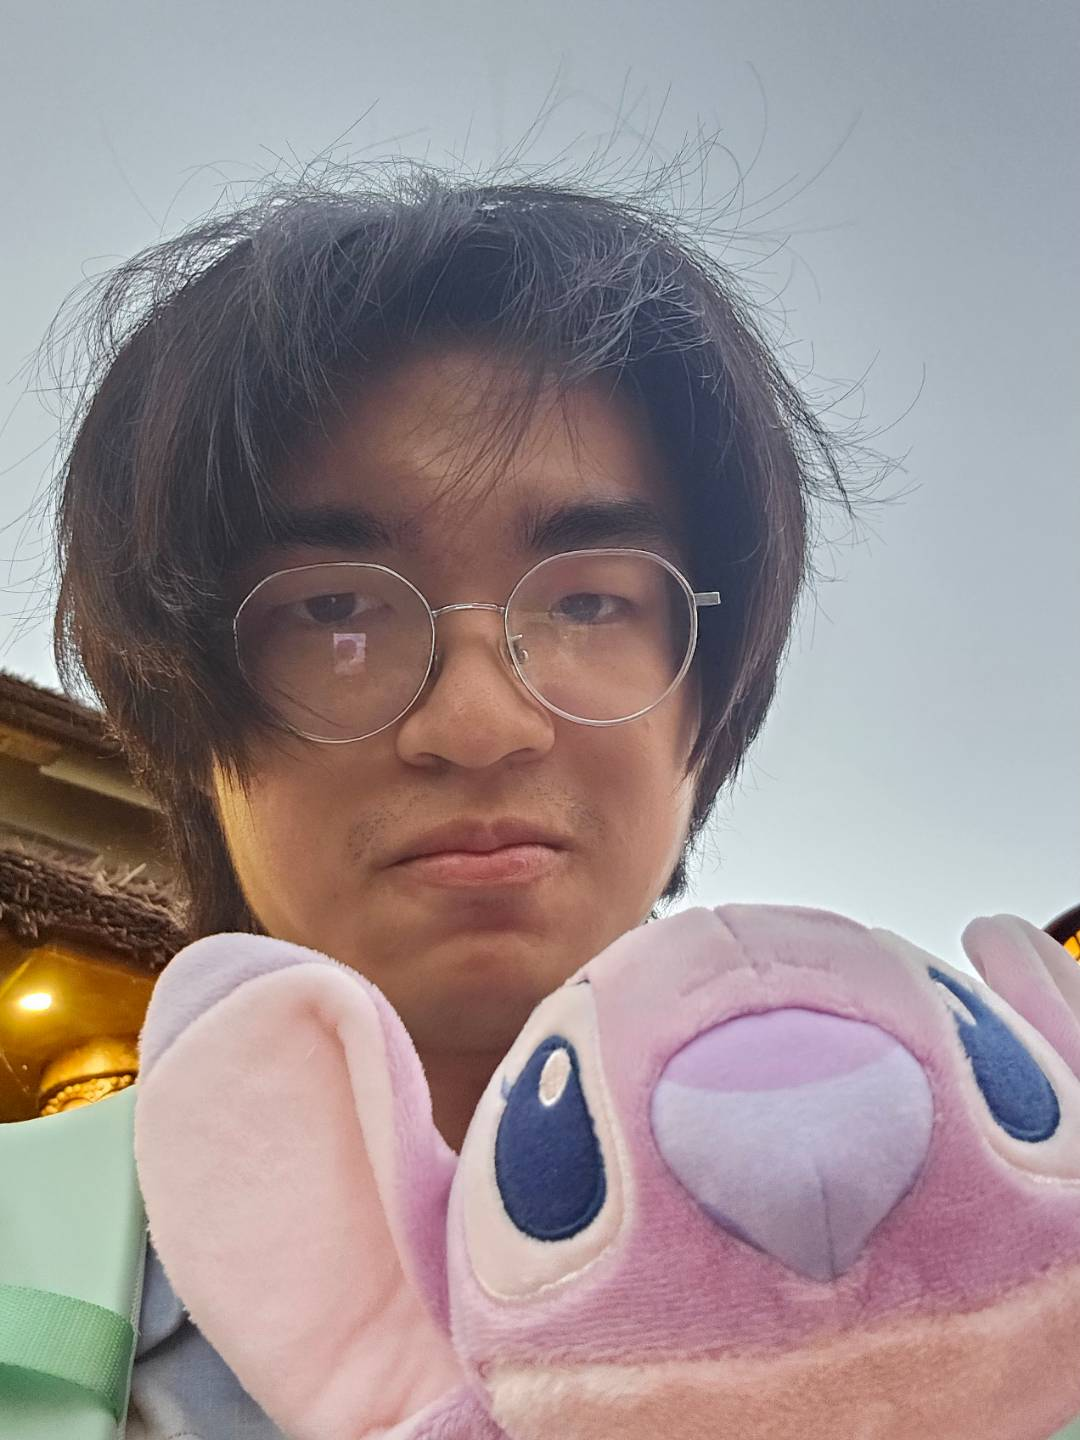
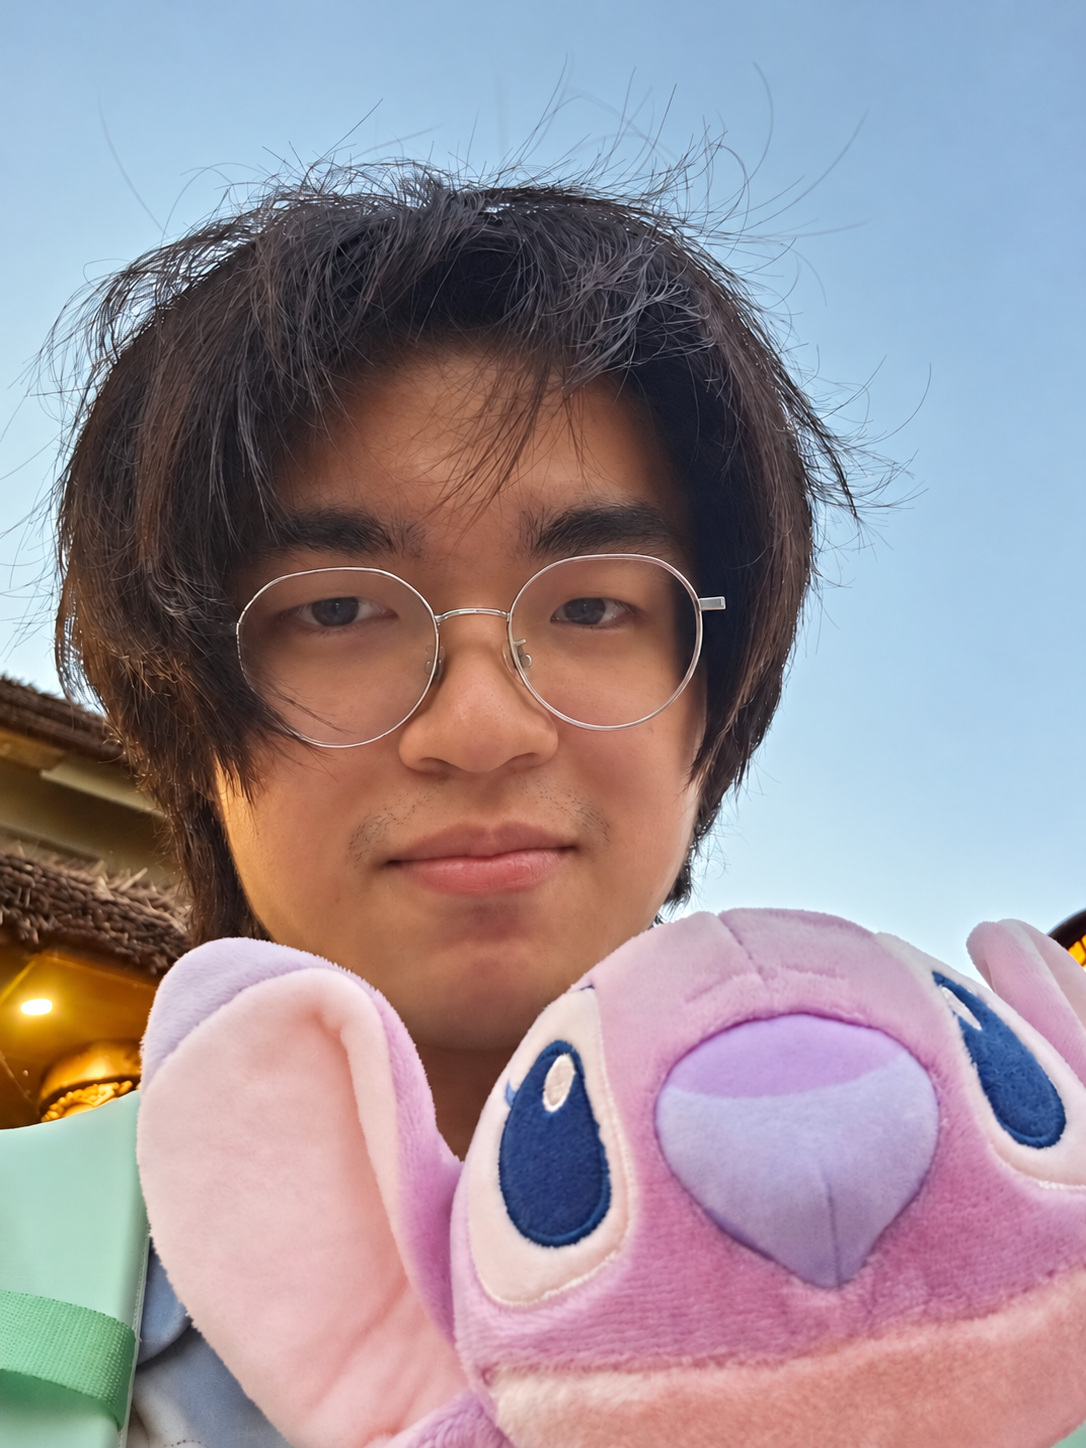
Add files via upload

diff --git a/index.html b/index.html
@@ -120,7 +120,7 @@
             <p class="interest"><strong>Research interests:</strong> Reliable and efficient AI · LLM agents · RL and credit assignment · Statistical decision theory · Game theory</p>
           </div>
           <figure class="portrait">
-            <img src="assets/portrait.jpg" alt="Tianhao Qian with a pink plush toy" width="1080" height="1440" loading="eager" decoding="async">
+            <img src="assets/portrait-20261027-noglare.jpg" alt="Tianhao Qian with a pink plush toy" width="1086" height="1448" loading="eager" decoding="async">
           </figure>
         </div>
       </section>
